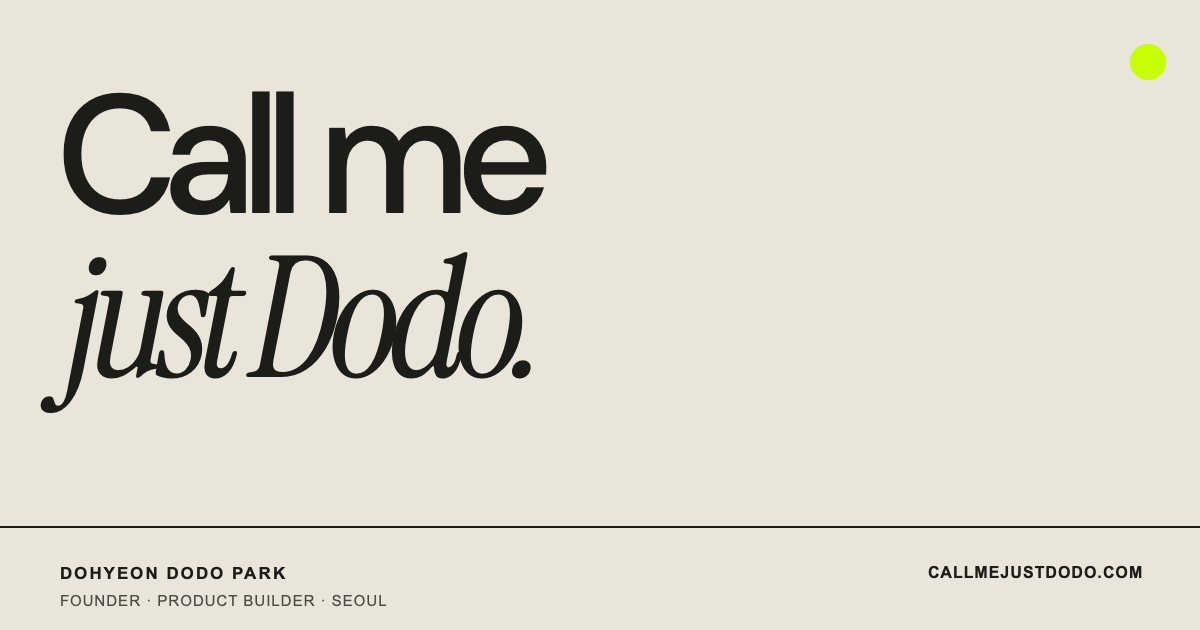
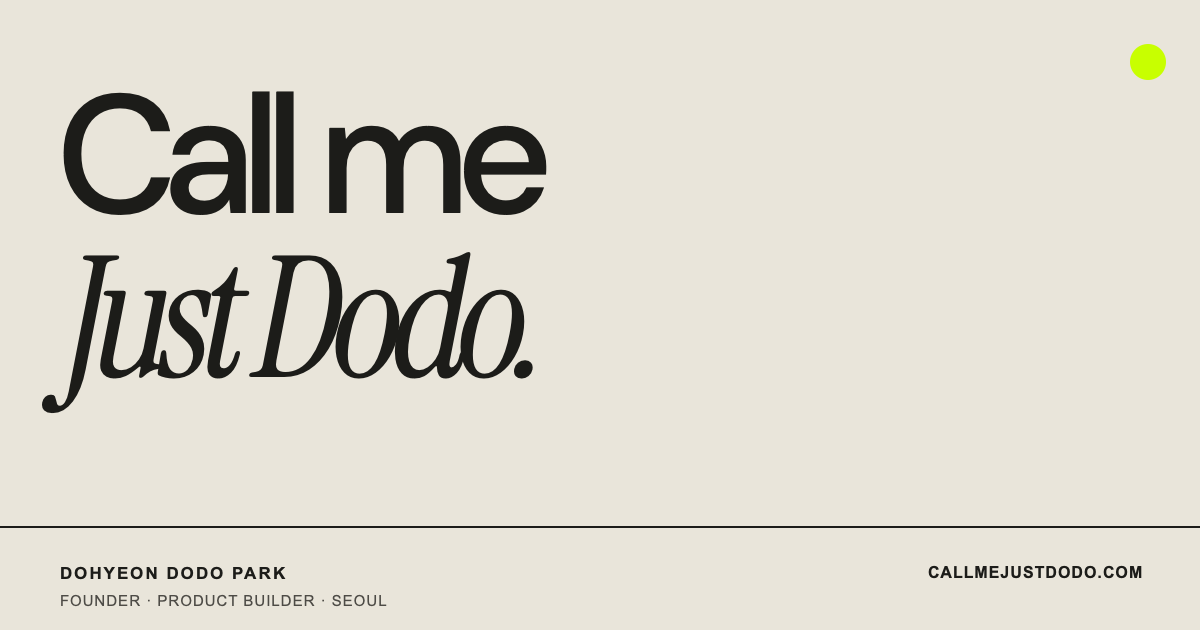
Give the portfolio signature title-case consistency
Constraint: Hero and social card must use Just Dodo. with an initial capital.
Rejected: Updating only one surface | The personal identity would drift across the site and shared image.
Confidence: high
Scope-risk: narrow
Directive: Keep hero and OG title copy synchronized.
Tested: sips -g pixelWidth -g pixelHeight og-image.png; visual image inspection; git diff --check
Not-tested: Third-party social crawler cache refresh

Changed region(s): [[0.0617, 0.3921, 0.4317, 0.6032], [0.0308, 0.6032, 0.0617, 0.6635]]

diff --git a/index.html b/index.html
@@ -69,7 +69,7 @@
       <section class="hero" aria-labelledby="hero-title">
         <p class="eyebrow">SEOUL · KOREA <span>●</span> BUILDING SINCE 2020</p>
         <div class="hero-copy">
-          <h1 id="hero-title">Call me<br /><em>just Dodo.</em></h1>
+          <h1 id="hero-title">Call me<br /><em>Just Dodo.</em></h1>
           <div class="hero-side">
             <p>My full name is Dohyeon Dodo Park.</p>
             <a class="circle-link" href="#work" aria-label="See selected work">↓</a>
